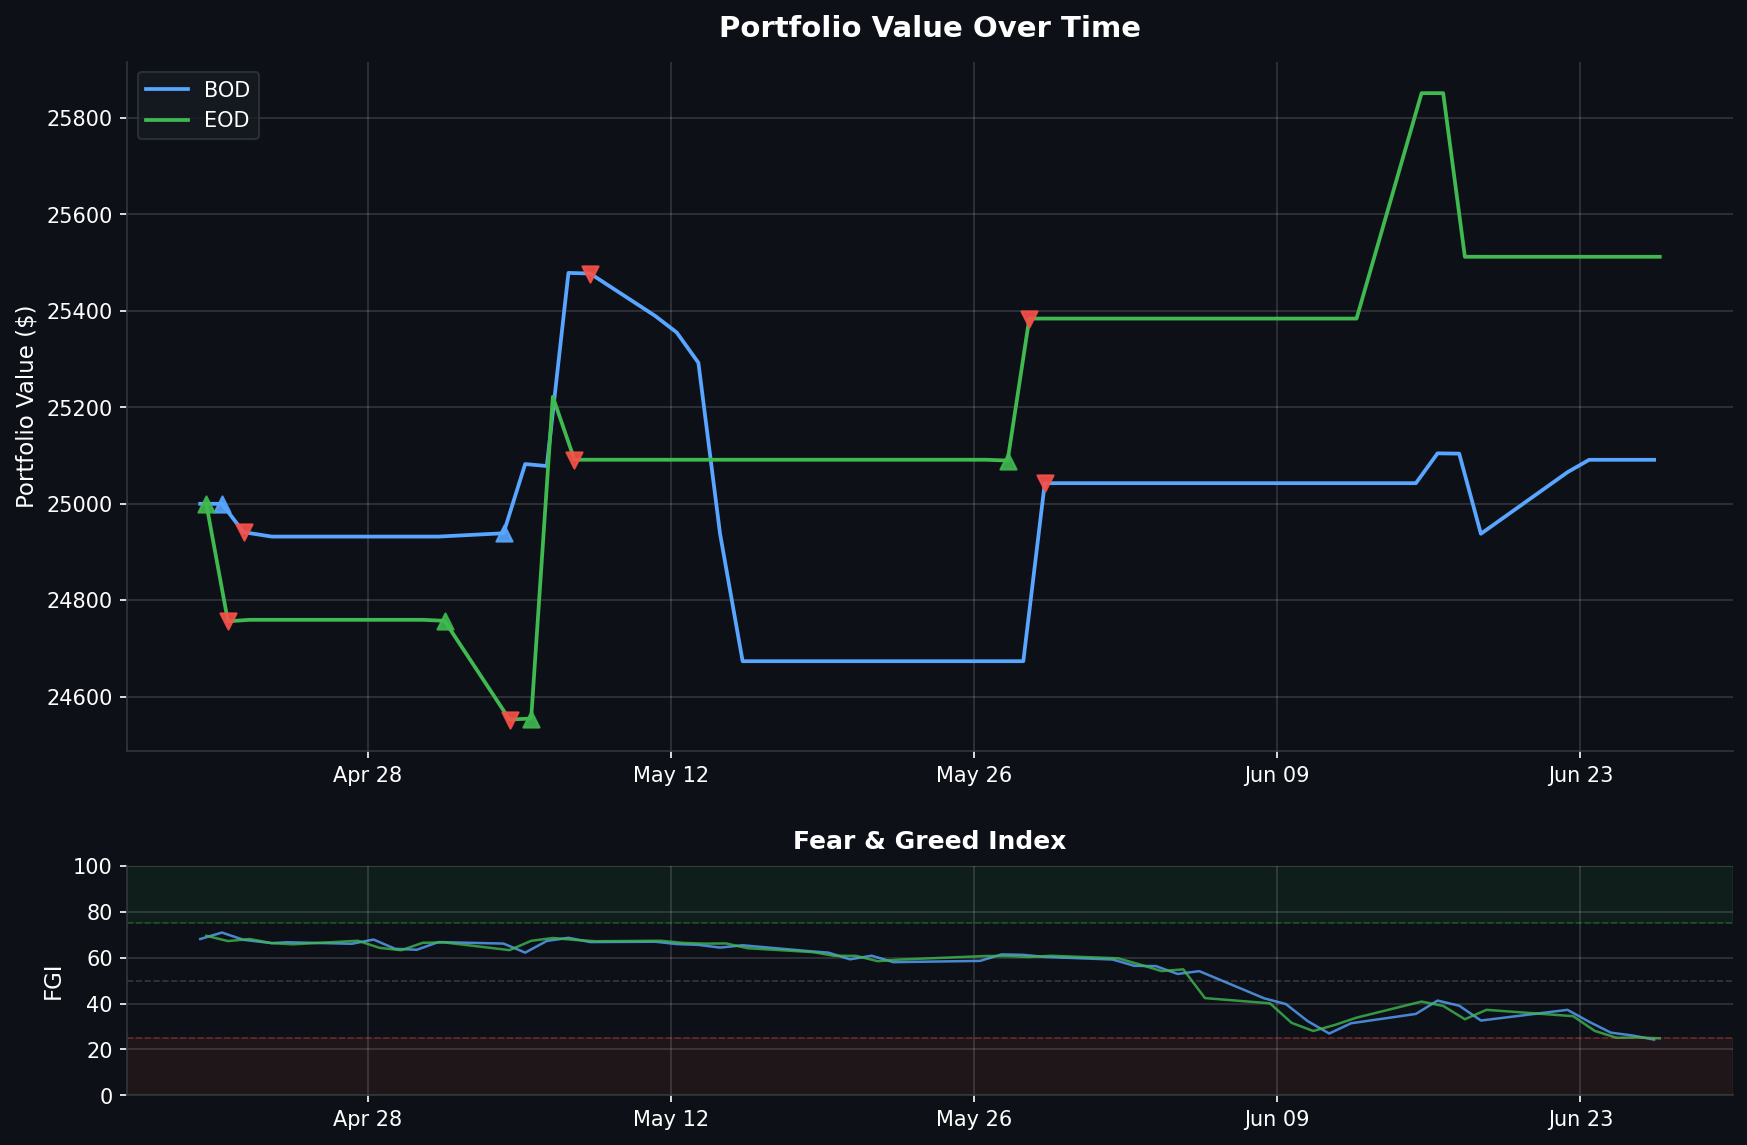
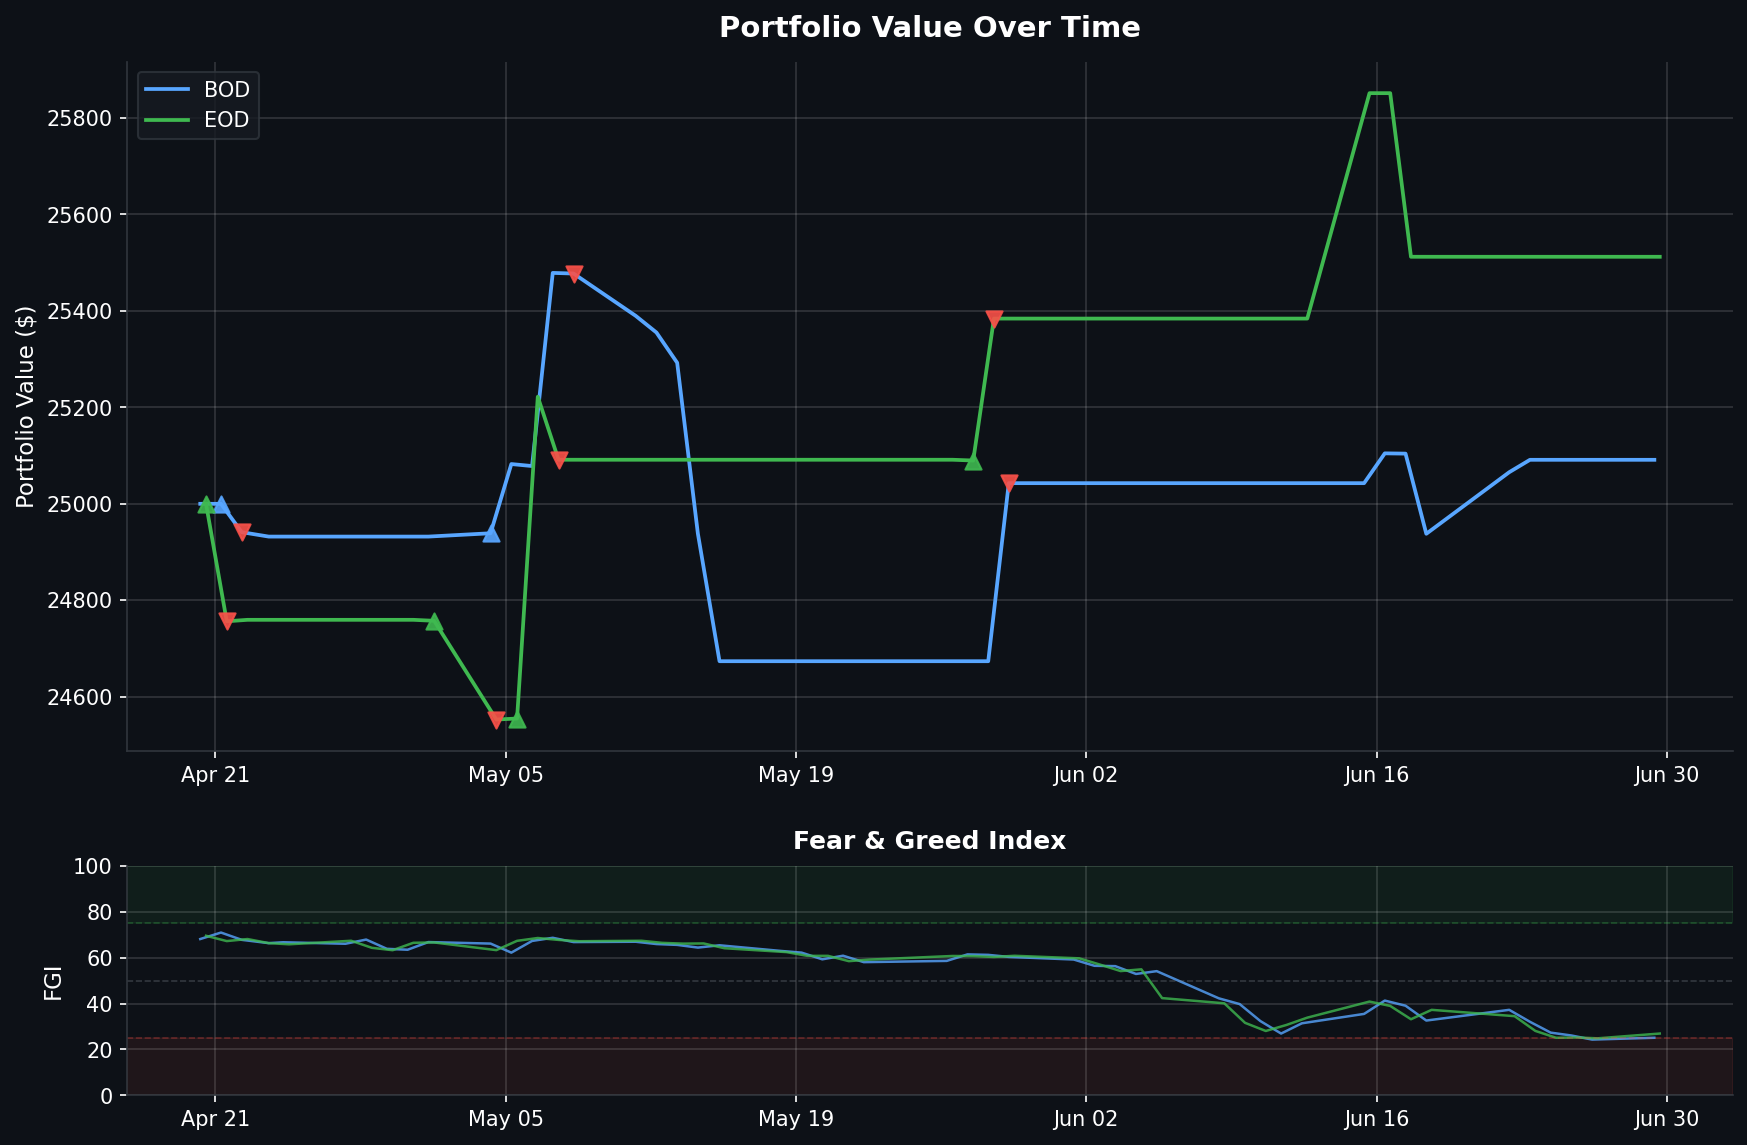
Daily data backup 2026-06-29

diff --git a/README.md b/README.md
@@ -1,6 +1,6 @@
 # Fear & Greed Index Trading Bot
 
-> Dashboard auto-updated daily at market close | Last update: **2026-06-26 13:30 PST**
+> Dashboard auto-updated daily at market close | Last update: **2026-06-29 13:30 PST**
 
 ![Portfolio Performance](assets/portfolio_chart.png)
 
@@ -12,12 +12,12 @@
 |--------|-------|
 | Portfolio Value | **$25,091.24** |
 | Buying Power | $100,364.96 |
-| Current FGI | 24.31 |
+| Current FGI | 25.11 |
 | Position | FLAT |
 | Total P&L | **$+995** |
 | Win Rate | 50% (1W / 1L) |
 | Total Round Trips | 2 |
-| Last Signal | NO_ACTION @ 2026-06-26 09:35 |
+| Last Signal | NO_ACTION @ 2026-06-29 09:35 |
 
 <details>
 <summary>Trade History (2 trades)</summary>
@@ -34,11 +34,11 @@
 
 | Time | Action | Price | FGI | Momentum | Velocity | Volatility | Reason |
 |------|--------|-------|-----|----------|----------|------------|--------|
+| 06-29 09:35 | NO_ACTION | $738.57 | 25.11 | -0.06 | -0.74 | 0.55 | Insufficient momentum/velocity for entry |
 | 06-26 09:35 | NO_ACTION | $728.10 | 24.31 | -1.60 | -2.58 | 0.55 | Insufficient momentum/velocity for entry |
 | 06-25 09:35 | NO_ACTION | $737.49 | 26.09 | -2.41 | -3.72 | 0.55 | Insufficient momentum/velocity for entry |
 | 06-24 09:35 | NO_ACTION | $736.74 | 27.34 | -4.88 | -1.75 | 0.55 | Insufficient momentum/velocity for entry |
 | 06-23 09:35 | NO_ACTION | $733.76 | 32.06 | -1.91 | -2.33 | 0.55 | Insufficient momentum/velocity for entry |
-| 06-22 09:35 | NO_ACTION | $748.05 | 37.26 | 0.95 | -1.34 | 0.55 | SELL incomplete - still holding 33 after 5 attempts |
 
 </details>
 
@@ -50,12 +50,12 @@
 |--------|-------|
 | Portfolio Value | **$25,512.23** |
 | Buying Power | $102,048.92 |
-| Current FGI | 24.86 |
+| Current FGI | 26.94 |
 | Position | FLAT |
 | Total P&L | **$+302** |
 | Win Rate | 50% (2W / 2L) |
 | Total Round Trips | 4 |
-| Last Signal | NO_ACTION @ 2026-06-26 15:50 |
+| Last Signal | NO_ACTION @ 2026-06-29 15:50 |
 
 <details>
 <summary>Trade History (4 trades)</summary>
@@ -74,11 +74,11 @@
 
 | Time | Action | Price | FGI | Momentum | Velocity | Volatility | Reason |
 |------|--------|-------|-----|----------|----------|------------|--------|
+| 06-29 15:50 | NO_ACTION | $740.70 | 26.94 | 1.26 | 0.61 | 0.55 | BUY did not fill after 3 attempts |
 | 06-26 15:50 | NO_ACTION | $733.12 | 24.86 | -0.20 | -1.08 | 0.55 | Insufficient momentum/velocity for entry |
 | 06-25 15:50 | NO_ACTION | $732.10 | 25.23 | -0.91 | -3.09 | 0.55 | Insufficient momentum/velocity for entry |
 | 06-24 15:50 | NO_ACTION | $732.08 | 25.1 | -4.13 | -4.05 | 0.55 | Insufficient momentum/velocity for entry |
 | 06-23 15:50 | NO_ACTION | $734.80 | 28.09 | -5.20 | -1.69 | 0.55 | Insufficient momentum/velocity for entry |
-| 06-22 15:50 | NO_ACTION | $743.81 | 34.51 | -0.47 | -1.49 | 0.55 | Insufficient momentum/velocity for entry |
 
 </details>
 
